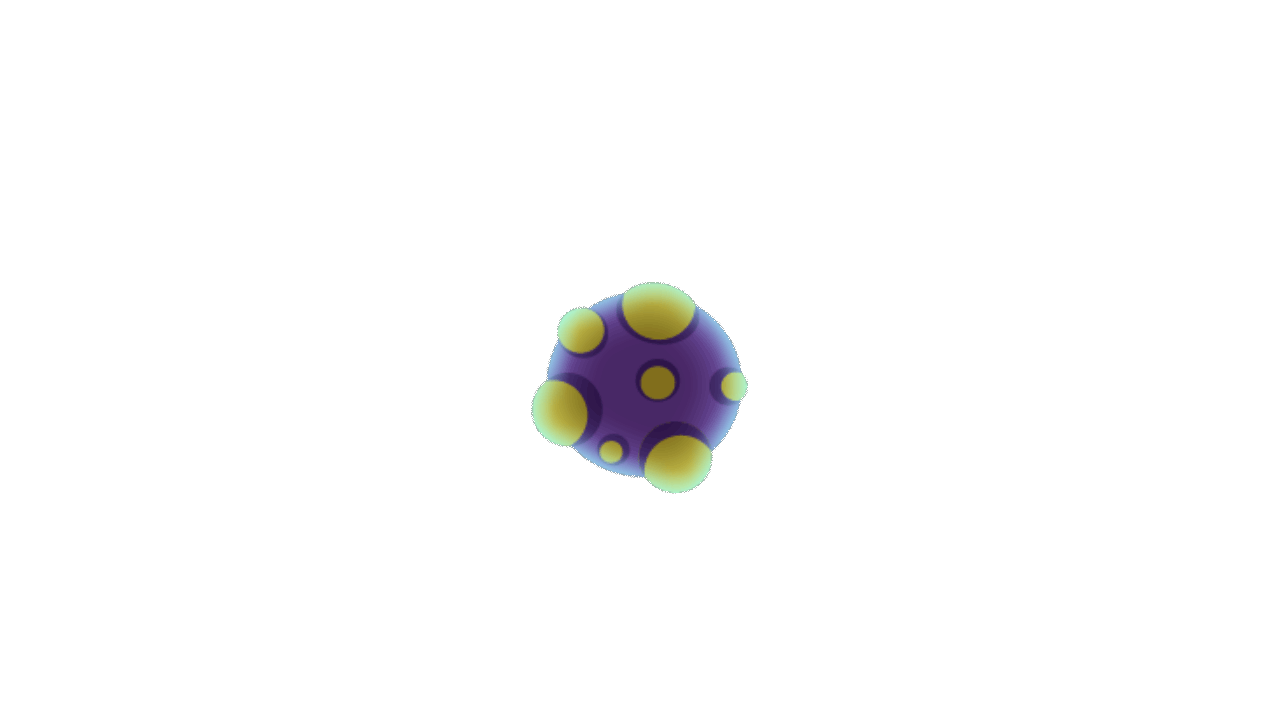
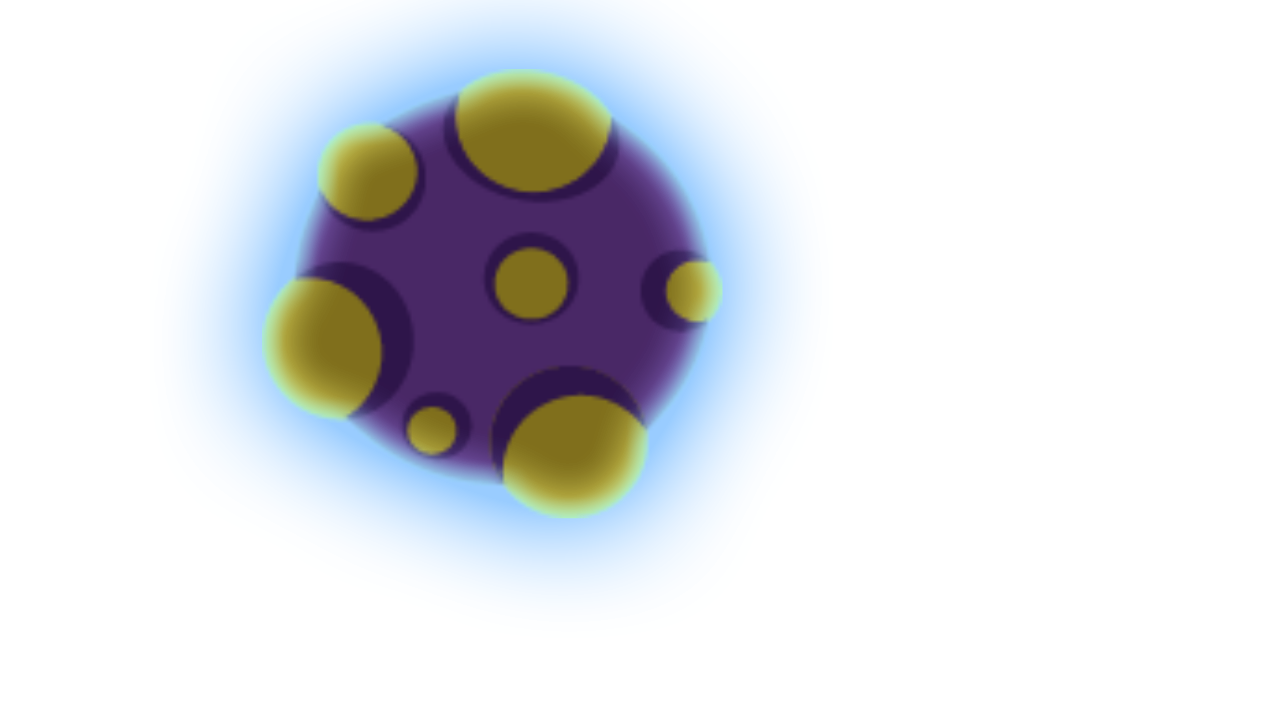
graphics overhaul

Changed region(s): [[0.1562, 0.0, 0.625, 0.825]]

diff --git a/game.js b/game.js
@@ -11,13 +11,14 @@ fixed speed/size of moons
 
 const ATTACK_MODE = -1;
 const REINFORCE_MODE = 1;
+let finalScore = 0;
 let timer = 0;
 let moon_x, moon_y;
 var img;
 var aliens = [];
 var moons = [];
 var moonImages = [];
-var numMoons = 6;
+var numMoons = 5;
 var satTheta = 0;
 var planetPopulation = 100;
 var transmissionSize = 5;
@@ -25,15 +26,19 @@ var gameOver;
 var logo;
 var stars = [];
 var sfx = {};
+var planetImage;
+var endImg, enemyImg;
 
 function preload() {
-  moonImages.push(loadImage('images/waterPlanet.png'));
   moonImages.push(loadImage('images/icePlanet.png'));
   moonImages.push(loadImage('images/gasPlanet.png'));
   moonImages.push(loadImage('images/crystalPlanet.png'));
   moonImages.push(loadImage('images/lavaPlanet.png'));
   moonImages.push(loadImage('images/bubblePlanet.png'));
+  planetImage = loadImage('images/waterPlanet.png');
   logo = loadImage('images/jetconelogo2.png');
+  endImg = loadImage('images/end.png');
+  enemyImg = loadImage('images/enemy.png');
   sfx['nice_laser_shoot'] = loadSound('sfx/nice_laser_shoot.wav');
   sfx['mean_laser_shoot'] = loadSound('sfx/mean_laser_shoot.wav');
   sfx['abduction'] = loadSound('sfx/abduction.wav');
@@ -70,6 +75,11 @@ function draw() {
     fill(stars[i].brightness);
     ellipse(stars[i].x, stars[i].y, stars[i].size);
   }
+  if (gameOver) {
+    imageMode(CORNER);
+    image(endImg, 0, 0);
+    imageMode(CENTER);
+  }
   if (timer % 200 == 0 && !gameOver) {
     aliens.push(new Alien());    
   }
@@ -82,7 +92,7 @@ function draw() {
       sfx['enemy_explosion'].play();
     }
   }
-  planetPopulation += 0.01;
+  if (!gameOver) planetPopulation += 0.01;
   if (keyIsDown(LEFT_ARROW)) {
     satTheta -= 0.1;
   }
@@ -90,10 +100,14 @@ function draw() {
     satTheta += 0.1;
   }
   if (keyIsDown(UP_ARROW) && !laser_beam.alive && planetPopulation >= transmissionSize && laser_beam.charge == laser_beam.maxCharge) {
-    if (laser_beam.mode == REINFORCE_MODE) sfx['nice_laser_shoot'].play();
-    else sfx['mean_laser_shoot'].play();
+    if (laser_beam.mode == REINFORCE_MODE) {
+      sfx['nice_laser_shoot'].play();
+      planetPopulation -= transmissionSize;
+    } else {
+      sfx['mean_laser_shoot'].play();
+      
+    }
     laser_beam.charged = false;
-    planetPopulation -= transmissionSize;
     laser_beam.alive = true;
     laser_beam.x1 = width/2+42*cos(satTheta);
     laser_beam.y1 = height/2+42*sin(satTheta);
@@ -125,10 +139,13 @@ function draw() {
   if (laser_beam.mode == REINFORCE_MODE) fill(0,255,0);
   else fill(255, 0, 0);
   ellipse(width/2+42*cos(satTheta),height/2+42*sin(satTheta), 10*(laser_beam.charge/laser_beam.maxCharge));
-  fill(0, 0, 150);
-  ellipse(width/2, height/2, 64);
+  fill(0, 0, 255);
+  image(planetImage, width/2 + 13, height/2 + 5, 200, 100);
   textSize(18);
-  text('Planet: ' + floor(planetPopulation), 10, 30);
+  image(planetImage, 20, 30, 80, 40);
+  text(floor(planetPopulation), 40, 30);
+  fill(200); 
+  if (!gameOver) text(floor(timer/10), 10, height - 10);
   for (var i=moons.length - 1; i>=0; i--) {
     moons[i].update();
     moons[i].show();
@@ -138,9 +155,14 @@ function draw() {
     }
   }
   if (moons.length == 0) {
-    textSize(48);
-    text("You Lose!", 100, 100);
+    textSize(72);
+    if (!gameOver) {
+      finalScore = floor(timer/10) * floor(planetPopulation);
+    }
+    fill(200);
+    text("The End Of Us", 65, 100);
+    text("Final Score", 50, 200);
+    text(finalScore, 65, 300);
     gameOver = true;
   }
-  if (gameOver) image(logo, 2*width/3, 2*height/3);
 }

diff --git a/moon.js b/moon.js
@@ -7,7 +7,13 @@ function Moon(id) {
   this.y = 0;
   this.size = 40;
   this.dist = this.size + 64 + random(180);
-  this.color = color(random(256),random(256), random(256));
+  this.color = [
+    color(0, 100, 2550),
+    color(0, 255, 0),
+    color(200, 0, 200),
+    color(255, 0, 0),
+    color(180, 250, 200)
+  ][id-1];;
   this.rotationSpeed = 0.001 + random(0.01);
   this.update = function() {
     this.theta += this.rotationSpeed;
@@ -17,9 +23,10 @@ function Moon(id) {
   this.show = function() {
     fill(this.color);
     noStroke();
-    image(moonImages[id-1], this.x, this.y, 200, 100);
+    image(moonImages[id-1], this.x, this.y, 120, 60);
     textSize(18);
-    text('Moon ' + this.id + ': ' + floor(this.population), 10, 30 + this.id * 20);
+    image(moonImages[id-1], 20, 30 + this.id * 30, 60, 30);
+    text(floor(this.population), 40, 30 + this.id * 30);
   };
   this.attack = function(dmg) {
     this.population -= dmg;

diff --git a/alien.js b/alien.js
@@ -35,6 +35,6 @@ function Alien() {
   this.show = function() {
     noStroke();
     fill(100, 0, 0);
-    ellipse(this.x, this.y, 50, 20);
-    };
+    image(enemyImg, this.x, this.y, 90, 40);
+  };
 }
